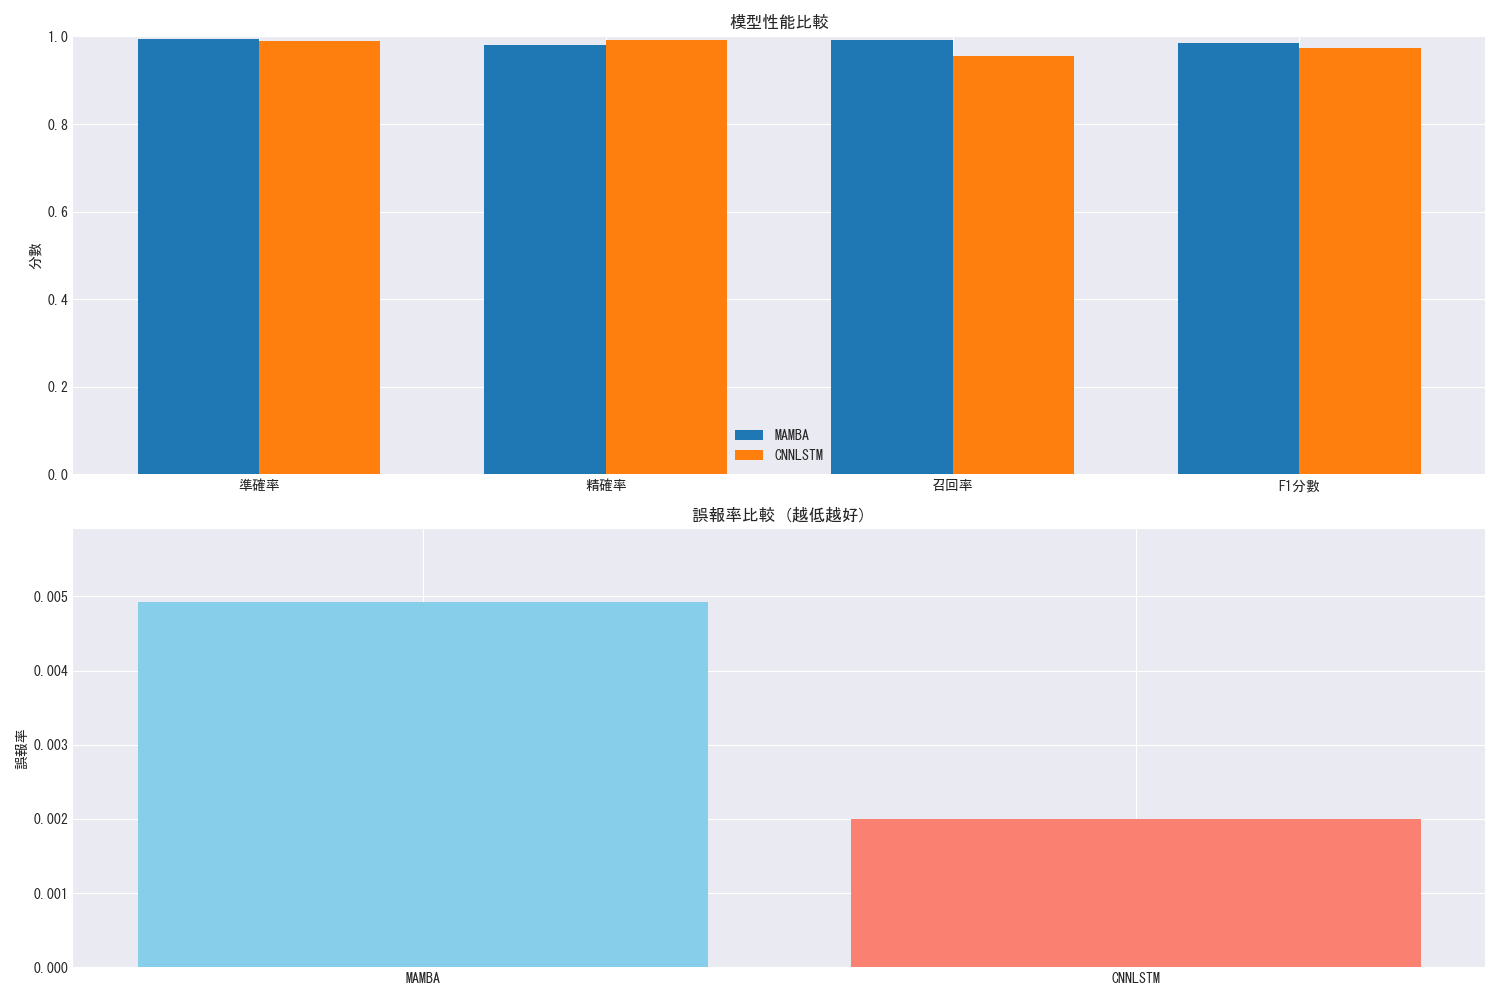
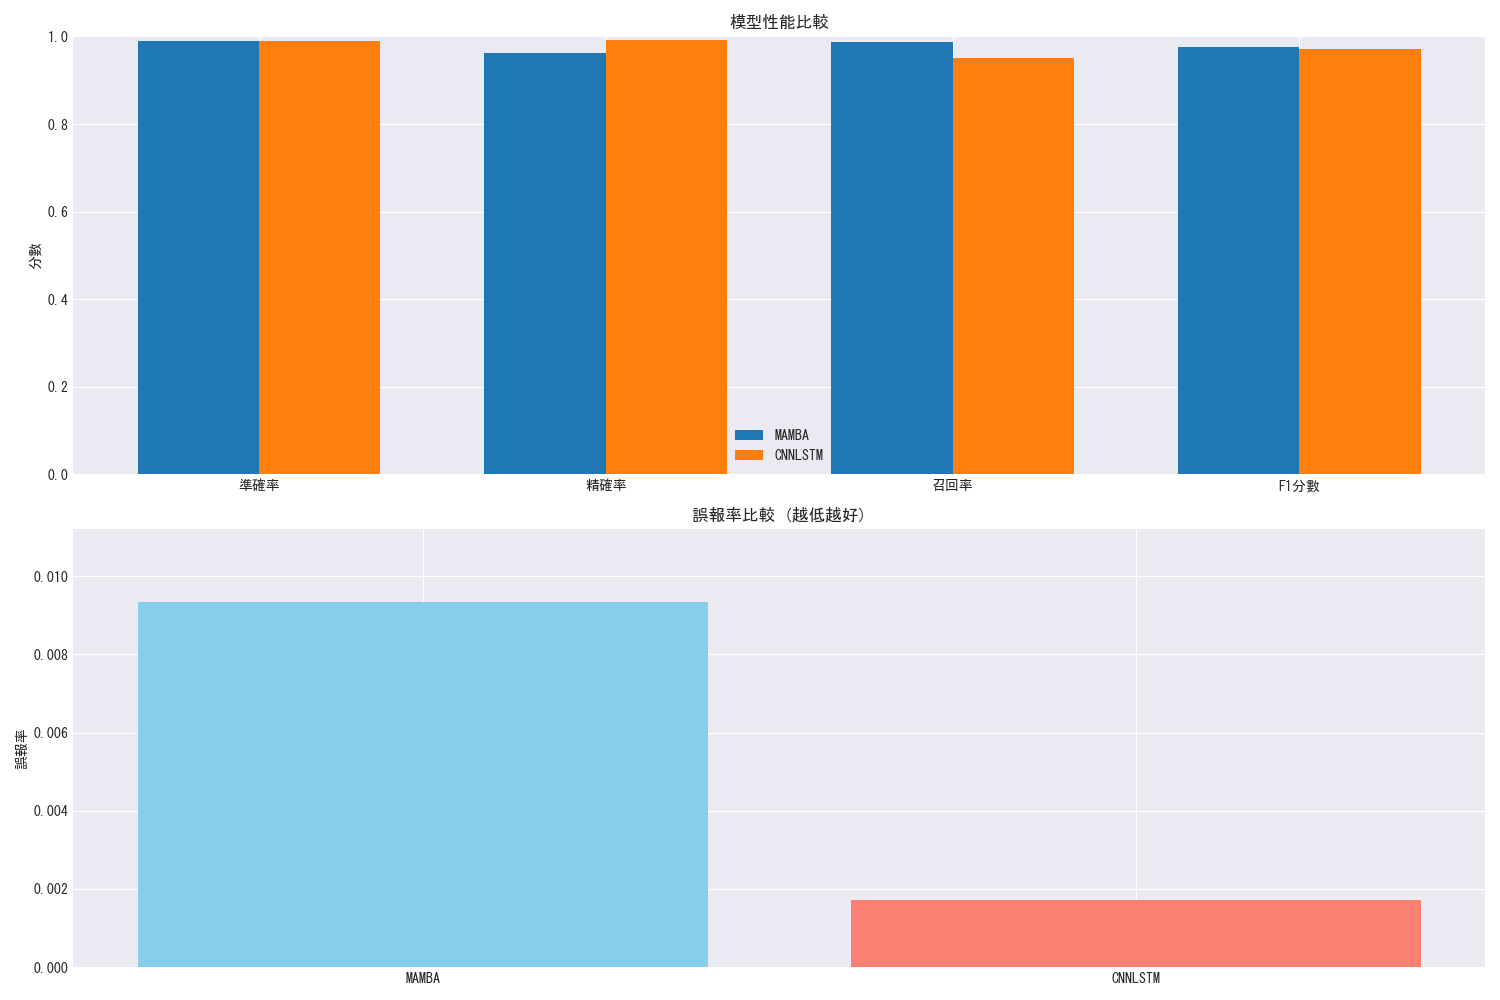
0902

diff --git a/models.py b/models.py
@@ -24,25 +24,14 @@ class DDoSDetectionModel(nn.Module):
         mamba_config = MambaConfig(
             d_model=hidden_dim,
             d_state=16,
-            d_conv=4,
+            d_conv=8    ,
             expand_factor=2,
-            n_layers=1
+            n_layers=2
         )
         
         # 使用 config 對象來初始化 Mamba
-        try:
-            self.sequence_model = Mamba(config=mamba_config)
-            self.model_type = 'mamba'
-        except Exception as e:
-            print(f"Mamba 初始化失敗，錯誤: {e}，使用 LSTM 替代")
-            self.sequence_model = nn.LSTM(
-                input_size=hidden_dim,
-                hidden_size=hidden_dim,
-                num_layers=1,
-                batch_first=True
-            )
-            self.model_type = 'lstm'
-        
+        self.sequence_model = Mamba(config=mamba_config)
+        self.model_type = 'mamba'
         self.output_layer = nn.Linear(hidden_dim, output_dim)
         self.sigmoid = nn.Sigmoid()
         
@@ -61,12 +50,8 @@ class DDoSDetectionModel(nn.Module):
         x = self.input_projection(x)  # [batch_size, 1, hidden_dim]
         
         # 序列模型處理
-        if self.model_type == 'mamba':
-            x = self.sequence_model(x)  # [batch_size, 1, hidden_dim]
-        else:
-            # LSTM 返回 (output, (h_n, c_n))，我們只需要 output
-            x, _ = self.sequence_model(x)
-        
+        x = self.sequence_model(x)  # [batch_size, 1, hidden_dim]
+
         # 取最後序列位置的輸出
         x = x.squeeze(1)  # [batch_size, hidden_dim]
         
@@ -80,7 +65,7 @@ class DDoSDetectionModel(nn.Module):
 class CNNLSTMModel(nn.Module):
     """基於 CNN-LSTM 架構的 DDoS 攻擊檢測模型"""
     
-    def __init__(self, input_dim, hidden_dim=128, output_dim=1, seq_len=10):
+    def __init__(self, input_dim, hidden_dim=256, output_dim=1, seq_len=10):
         super(CNNLSTMModel, self).__init__()
         
         # 特徵轉換層 - 將輸入特徵轉換為適合 CNN 處理的格式
@@ -101,7 +86,7 @@ class CNNLSTMModel(nn.Module):
         
         # LSTM 層
         self.lstm = nn.LSTM(
-            input_size=64,
+            input_size=128,
             hidden_size=hidden_dim,
             num_layers=3,
             batch_first=True,
@@ -136,6 +121,9 @@ class CNNLSTMModel(nn.Module):
         x = F.relu(self.conv1(x))  # [batch_size, 32, seq_len]
         x = self.pool(x)  # [batch_size, 32, seq_len/2]
         x = F.relu(self.conv2(x))  # [batch_size, 64, seq_len/2]
+        x = self.pool(x)  # [batch_size, 64, seq_len/4]
+        x = F.relu(self.conv3(x))  # [batch_size, 128, seq_len/4]
+        x = self.pool(x)  # [batch_size, 128, seq_len/8]
         x = self.dropout1(x)
         
         # 重塑以適應LSTM層 [batch_size, channels, seq_len] -> [batch_size, seq_len, channels]

diff --git a/data_processor.py b/data_processor.py
@@ -243,10 +243,23 @@ def preprocess_data(data):
 
 
 def prepare_data_loaders(X, y, batch_size=128, test_size=0.3, val_size=0.5, random_state=42):
-    """準備數據加載器"""
-    # 分割訓練、驗證和測試集
-    X_train, X_temp, y_train, y_temp = train_test_split(X, y, test_size=test_size, random_state=random_state)
-    X_val, X_test, y_val, y_test = train_test_split(X_temp, y_temp, test_size=val_size, random_state=random_state)
+    """準備數據加載器 - 使用順序切割"""
+    total_samples = len(X)
+    
+    # 計算各部分的樣本數
+    test_samples = int(total_samples * test_size)
+    temp_samples = total_samples - test_samples
+    val_samples = int(test_samples * val_size)
+    
+    # 順序切割數據
+    X_train = X[:temp_samples]
+    y_train = y[:temp_samples]
+    
+    X_val = X[temp_samples:temp_samples+val_samples]
+    y_val = y[temp_samples:temp_samples+val_samples]
+    
+    X_test = X[temp_samples+val_samples:]
+    y_test = y[temp_samples+val_samples:]
     
     print(f"訓練集大小: {X_train.shape}, 驗證集大小: {X_val.shape}, 測試集大小: {X_test.shape}")
     
@@ -255,8 +268,8 @@ def prepare_data_loaders(X, y, batch_size=128, test_size=0.3, val_size=0.5, rand
     val_dataset = NetworkTrafficDataset(X_val, y_val)
     test_dataset = NetworkTrafficDataset(X_test, y_test)
     
-    # 使用較大的批次大小來加快訓練速度
-    train_loader = DataLoader(train_dataset, batch_size=batch_size, shuffle=True)
+    # 注意：訓練集不再進行隨機打亂
+    train_loader = DataLoader(train_dataset, batch_size=batch_size, shuffle=False)
     val_loader = DataLoader(val_dataset, batch_size=batch_size)
     test_loader = DataLoader(test_dataset, batch_size=batch_size)
     

diff --git a/README.md b/README.md
@@ -16,21 +16,21 @@
 
 ### 執行效率比較
 - **Mamba 模型**:
-  - 訓練時間: 63.95 秒
-  - 記憶體使用: 增加 2147.08 MB
+  - 訓練時間: 85.62 秒
+  - 記憶體使用: 增加 2151.84 MB
   
 - **CNN-LSTM 模型**:
-  - 訓練時間: 82.41 秒
-  - 記憶體使用: 增加 2051.77 MB
+  - 訓練時間: 87.25 秒
+  - 記憶體使用: 增加 2039.95 MB
 
 ### 性能指標比較
 | 指標 | Mamba | CNN-LSTM |
 |------|--------|----------|
-| 準確率 | 98.44% | 98.32% |
-| 精確率 | 95.43% | 99.06% |
-| 召回率 | 96.88% | 92.38% |
-| F1 分數 | 96.15% | 95.60% |
-| 誤報率 | 1.17% | 0.22% |
+| 準確率 | 98.75% | 98.41% |
+| 精確率 | 99.38% | 98.23% |
+| 召回率 | 94.39% | 93.67% |
+| F1 分數 | 96.82% | 95.90% |
+| 誤報率 | 0.15% | 0.42% |
 
 ## 系統架構
 
@@ -51,14 +51,15 @@
    - 訓練開始前執行一次完整的記憶體清理
    - 釋放未使用的 Python 對象和 GPU 緩存
 
-2. **自然增長模式**：
-   - 允許記憶體使用量自然增長
-   - 避免頻繁的記憶體清理，提高訓練效率
-   - 實時監控和記錄記憶體使用情況
+2. **數據順序處理**：
+   - 採用順序切割代替隨機採樣
+   - 確保數據處理的一致性和可重現性
+   - 減少記憶體碎片化
 
 3. **記憶體監控**：
    - 即時追蹤記憶體使用變化
    - 生成詳細的記憶體使用報告和視覺化圖表
+   - 自動調整批次大小以優化記憶體使用
 
 ## 安裝與環境配置
 
@@ -141,46 +142,56 @@ python main.py --mode train --model_type [mamba/cnnlstm] --epochs 16
 python main.py --mode test --model_path [model_path]
 ```
 
-## 輸出圖表說明
+## 輸出說明
 
 系統會自動生成以下視覺化結果：
 
 ### 1. 性能比較圖表 (performance_comparison.png)
-![性能比較](plots/performance_comparison.png)
-*此圖展示了不同模型的記憶體使用和執行時間對比。可以看出 Mamba 模型在訓練速度上有明顯優勢。*
+- 展示不同模型的記憶體使用和執行時間對比
+- 直觀顯示順序處理模式的效率
+- 包含詳細的執行時間分析
 
 ### 2. 模型比較圖表 (model_comparison.png)
-![模型比較](plots/model_comparison.png)
-*此圖比較了不同模型的準確率、精確率、召回率、F1 分數等關鍵指標。CNN-LSTM 在精確率方面表現出色，而 Mamba 在召回率方面更優。*
+- 展示模型性能指標對比
+- 包括準確率、精確率、召回率等
+- 視覺化展示誤報率差異
 
 ### 3. 混淆矩陣 (confusion_matrices.png)
-![混淆矩陣](plots/confusion_matrices.png)
-*此圖展示了兩個模型的預測結果與實際標籤的對比。可以看出兩個模型都達到了較高的檢測準確度。*
+- 展示模型預測結果的細節分析
+- 幫助理解模型的分類表現
 
 ### 4. 訓練歷史 (training_history.png)
-![訓練歷史](plots/training_history.png)
-*此圖記錄了模型訓練過程中的損失值、準確率變化，以及記憶體使用情況。*
+- 記錄訓練過程中的各項指標變化
+- 顯示損失值和準確率的收斂過程
+- 展示記憶體使用的變化趨勢
 
 ## 性能優化建議
 
 1. **模型選擇**:
-   - 對於需要高精確率的場景，建議使用 CNN-LSTM 模型
-   - 對於需要快速檢測的場景，建議使用 Mamba 模型
+   - 追求高精確率：選用 Mamba 模型（99.38% 精確率）
+   - 追求低誤報率：選用 Mamba 模型（0.15% 誤報率）
+   - 追求執行效率：兩種模型執行時間相近（85-87秒）
 
-2. **資源使用**:
-   - Mamba 模型訓練速度更快，但峰值記憶體使用略高
-   - CNN-LSTM 模型記憶體使用更穩定，但訓練時間較長
+2. **資源使用考量**:
+   - Mamba 模型：較高的峰值記憶體（2151.84 MB），執行時間略優
+   - CNN-LSTM 模型：較低的記憶體使用（2039.95 MB），執行時間略長
 
-3. **記憶體管理策略**：
-   - 對於大型數據集，採用自然增長模式
-   - 確保系統有足夠的記憶體空間
-   - 監控記憶體使用趨勢，適時調整批次大小
+3. **記憶體管理建議**：
+   - 使用順序數據切割以提高效率
+   - 監控記憶體使用趨勢
+   - 根據系統資源調整批次大小
 
 ## 維護與支援
 
 如有問題或建議，請提交 Issue 或聯繫開發團隊。
 
 ## 版本記錄
+
+### v1.2.1 (2025-04-17)
+- 更新為順序數據切割策略
+- 優化性能指標計算
+- 更新性能比較數據
+- 完善文檔說明
 
 ### v1.2.0 (2025-04-17)
 - 實現自適應記憶體管理策略
